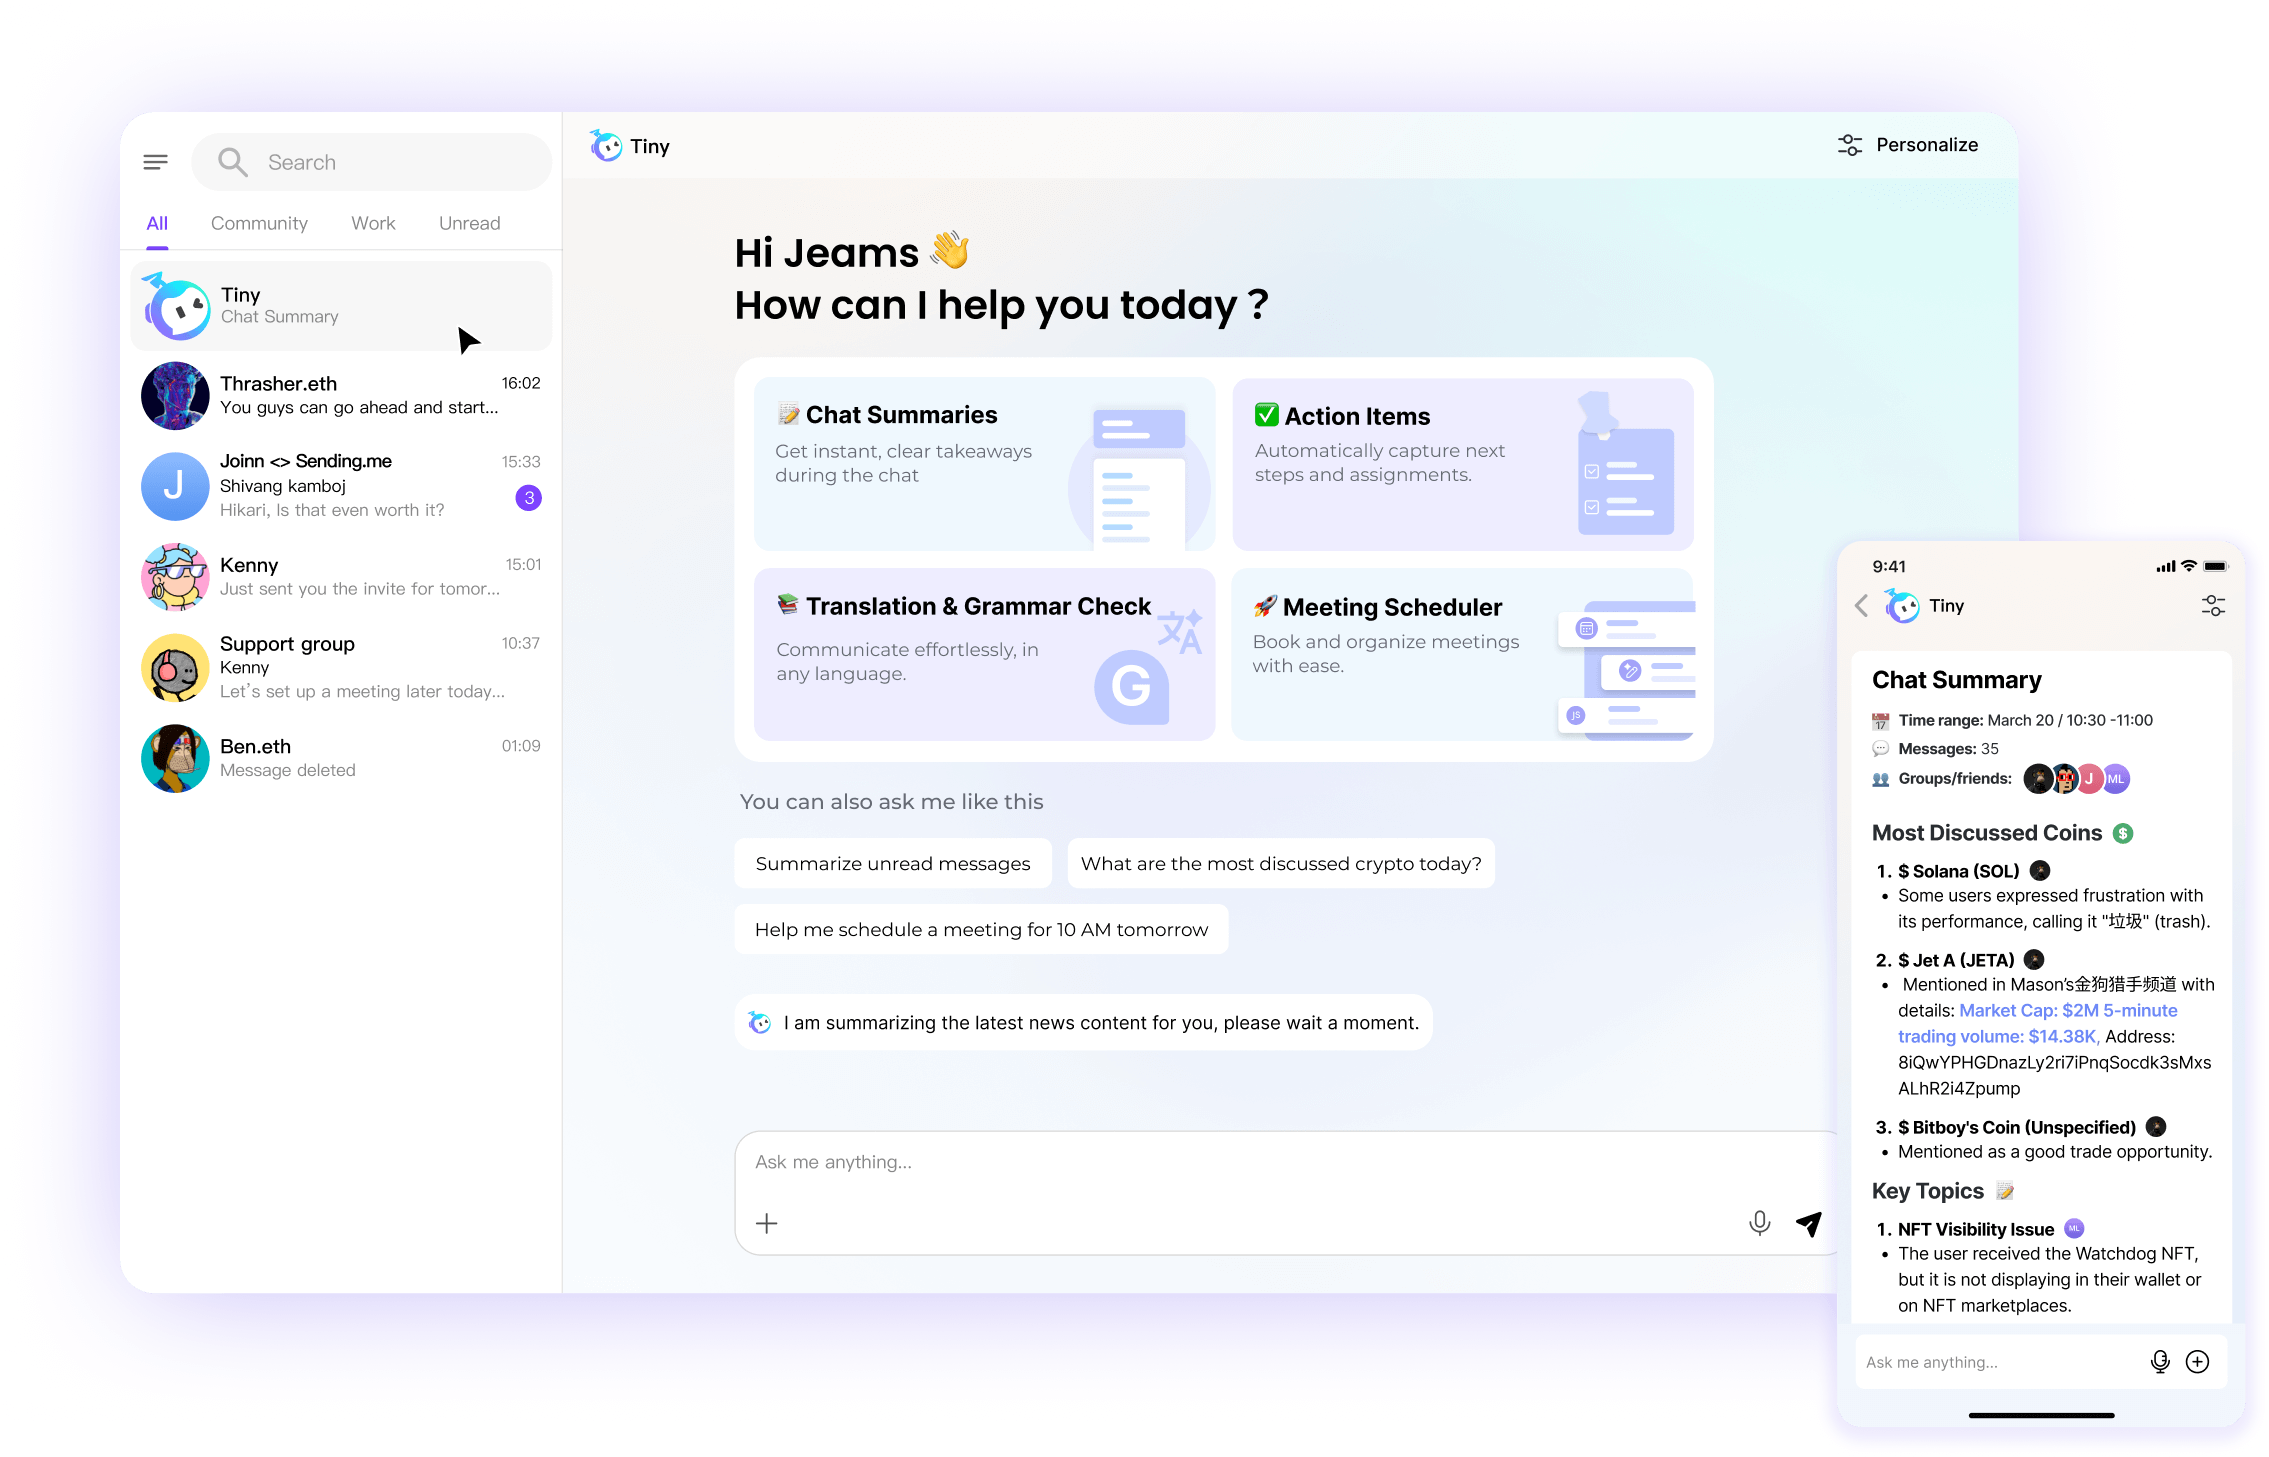
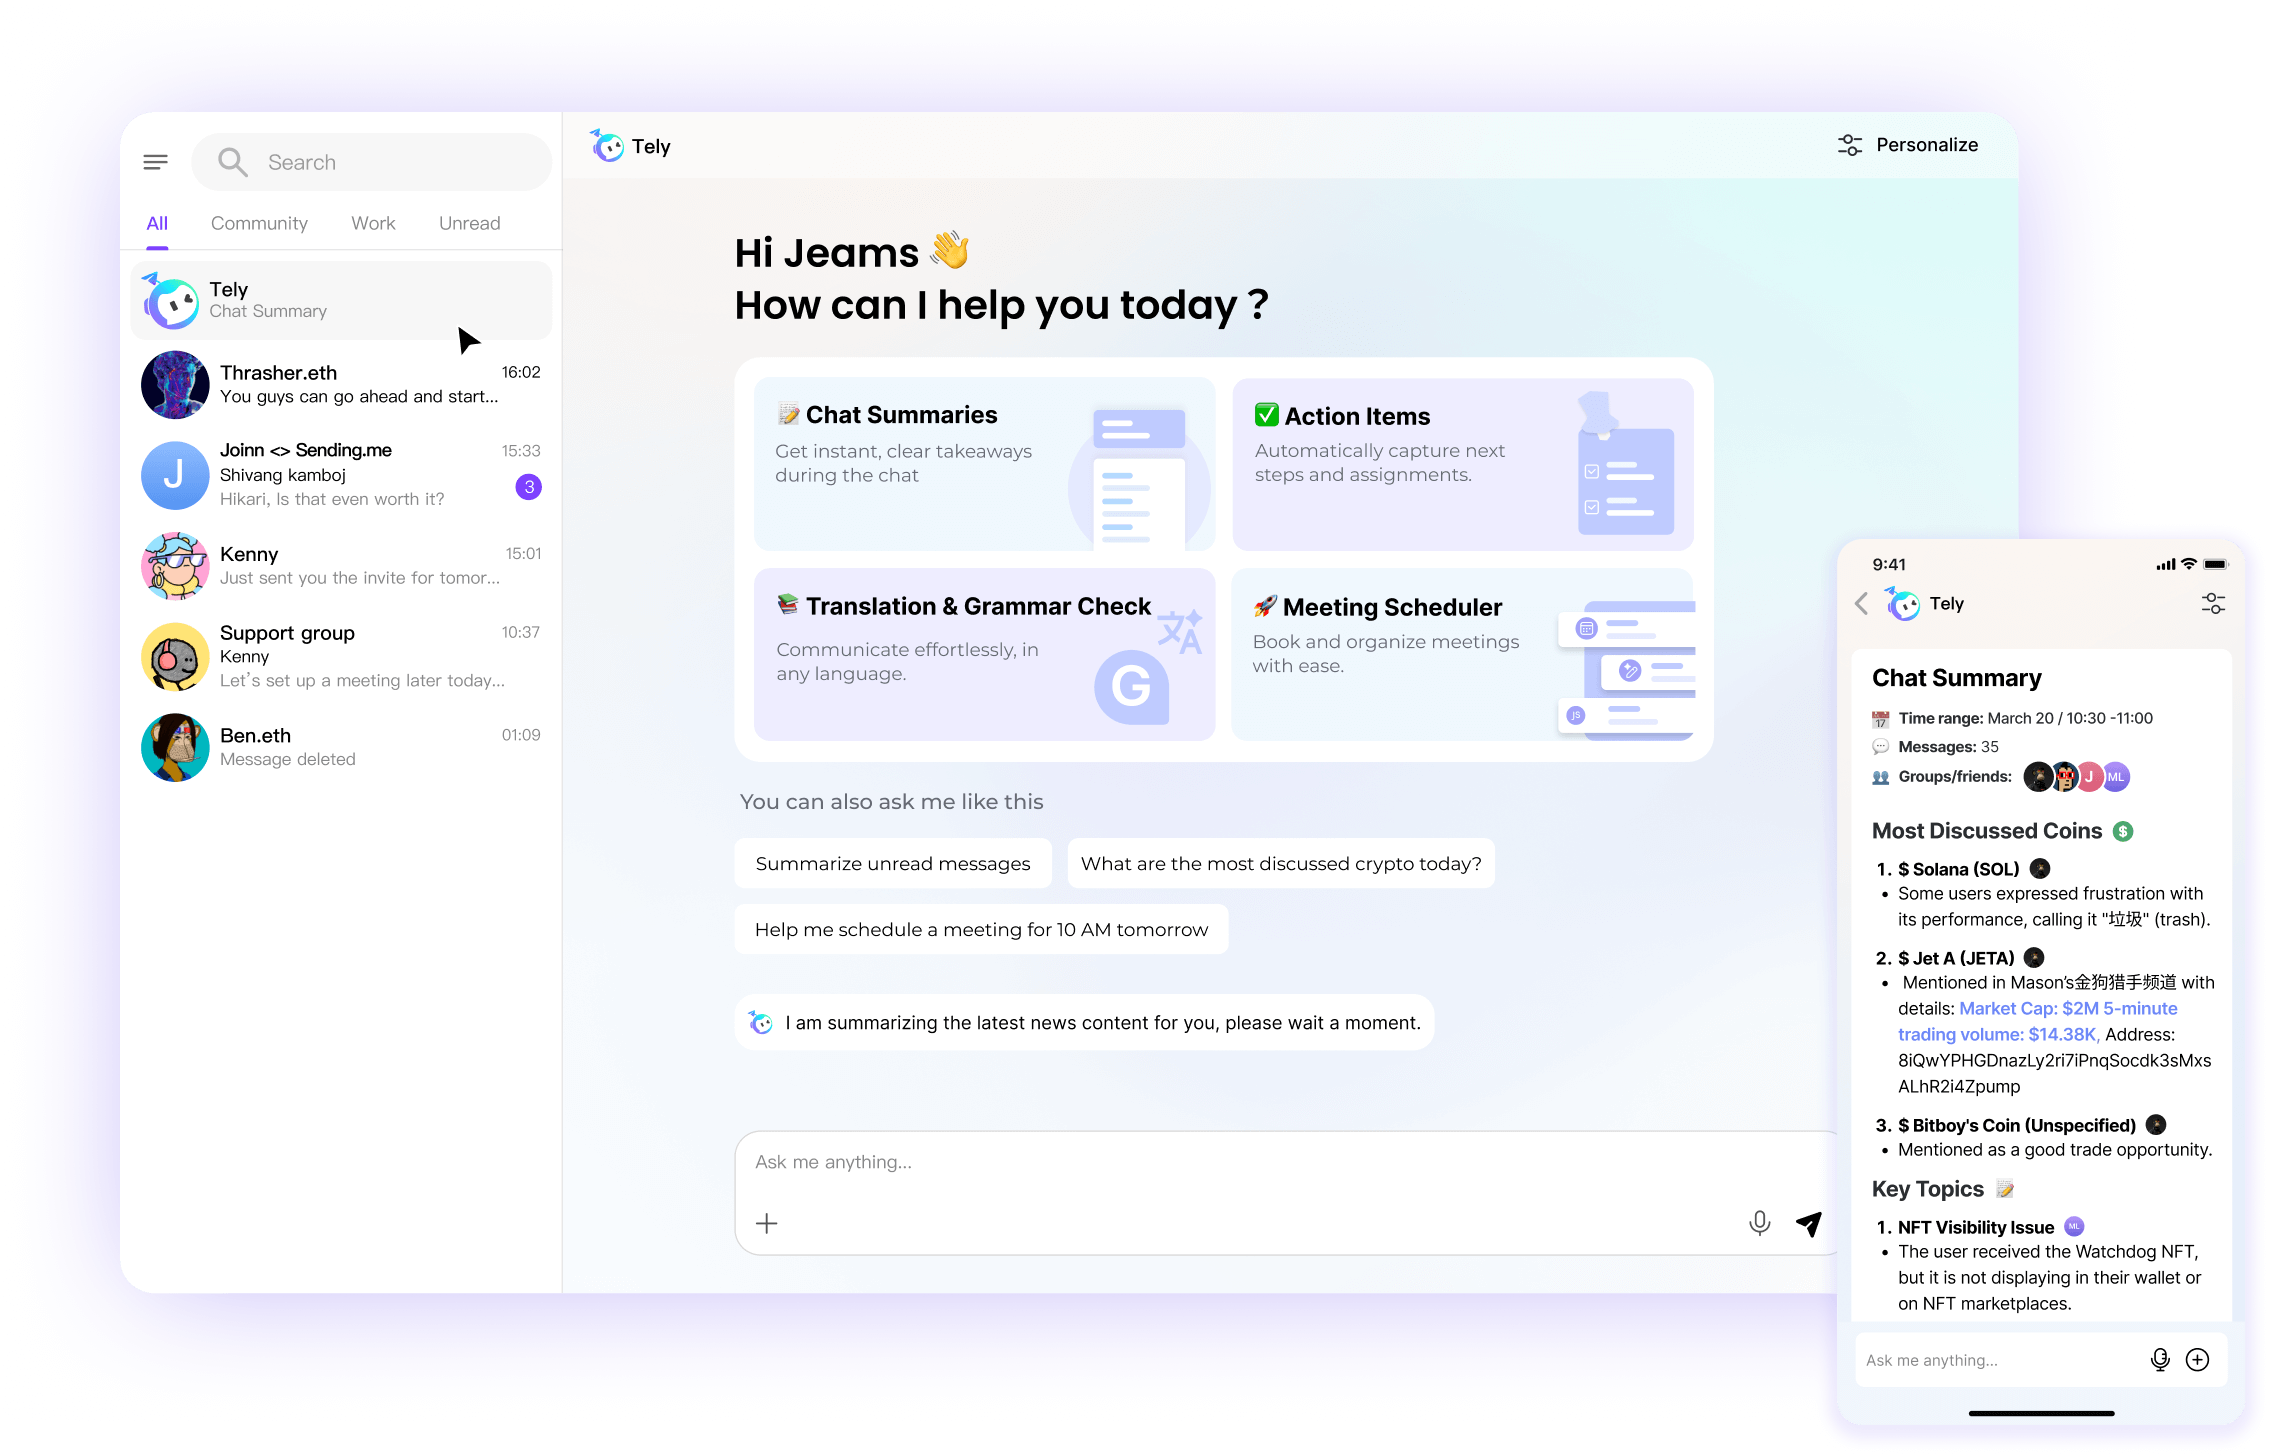
fix app name

diff --git a/vite.config.js b/vite.config.js
@@ -26,9 +26,9 @@ export default defineConfig({
         
         // 复制安装包文件
         try {
-          copyFileSync(resolve(packageSrcDir, 'Telegpt-x64.exe'), resolve(packageDistDir, 'Telegpt-x64.exe'));
-          copyFileSync(resolve(packageSrcDir, 'Telegpt-arm64.dmg'), resolve(packageDistDir, 'Telegpt-arm64.dmg'));
-          copyFileSync(resolve(packageSrcDir, 'Telegpt-x64.dmg'), resolve(packageDistDir, 'Telegpt-x64.dmg'));
+          copyFileSync(resolve(packageSrcDir, 'TeleGPT-x64.exe'), resolve(packageDistDir, 'TeleGPT-x64.exe'));
+          copyFileSync(resolve(packageSrcDir, 'TeleGPT-arm64.dmg'), resolve(packageDistDir, 'TeleGPT-arm64.dmg'));
+          copyFileSync(resolve(packageSrcDir, 'TeleGPT-x64.dmg'), resolve(packageDistDir, 'TeleGPT-x64.dmg'));
           console.log('Package files copied to dist successfully!');
         } catch (error) {
           console.error('Error copying package files:', error);

diff --git a/src/component/app-download.jsx b/src/component/app-download.jsx
@@ -34,8 +34,8 @@ const AppDownload = () => {
     const handleDownloadWin = ()=>{
         // 下载Windows安装包
         const link = document.createElement('a');
-        link.href = '/package/Telegpt-x64.exe';
-        link.download = 'Telegpt-x64.exe';
+        link.href = '/package/TeleGPT-x64.exe';
+        link.download = 'TeleGPT-x64.exe';
         document.body.appendChild(link);
         link.click();
         document.body.removeChild(link);
@@ -56,7 +56,7 @@ const AppDownload = () => {
         }
         
         // 根据芯片类型选择对应的安装包
-        const fileName = architecture === 'arm' ? 'Telegpt-arm64.dmg' : 'Telegpt-x64.dmg';
+        const fileName = architecture === 'arm' ? 'TeleGPT-arm64.dmg' : 'TeleGPT-x64.dmg';
         
         const link = document.createElement('a');
         link.href = `/package/${fileName}`;

diff --git a/index.html b/index.html
@@ -4,7 +4,7 @@
     <meta charset="UTF-8" />
     <link rel="icon" type="image/svg+xml" href="/logo.svg" />
     <meta name="viewport" content="width=device-width, initial-scale=1.0" />
-    <title>Vite + React</title>
+    <title>TeleGPT</title>
   </head>
   <body>
     <div id="root"></div>
